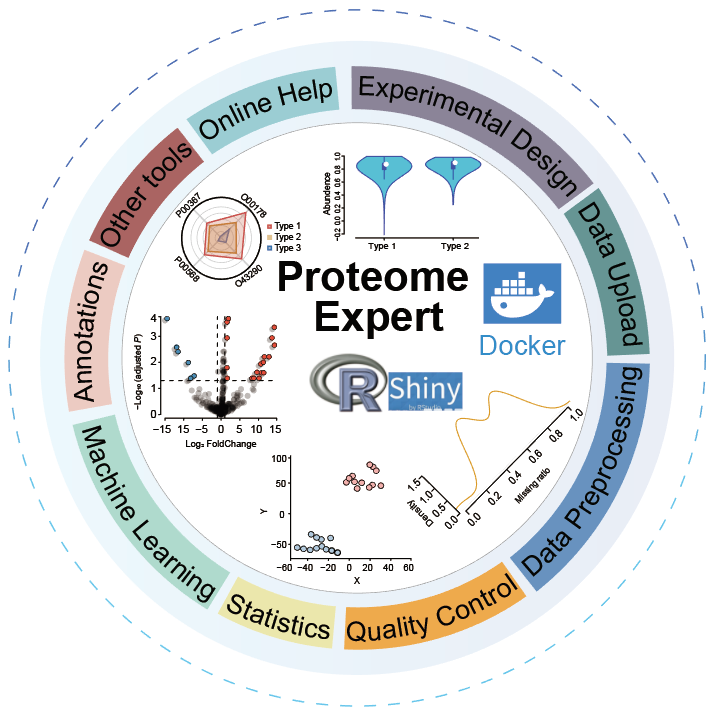
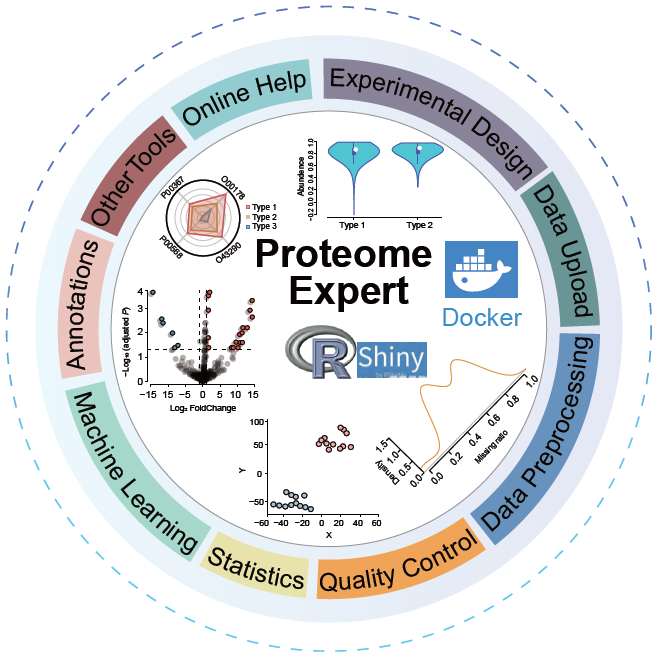
correct case sensitivity

diff --git a/help/ExperimentalDesign.md b/help/ExperimentalDesign.md
@@ -1,5 +1,5 @@
-# ProteomeExpert-Experimental Design
-### Power Analysis
+# ProteomeExpert-Experimental design
+### Power analysis
 
 Power analysis is a statistical strategy that allows us to determine the sample size required to detect a preset effect under a given test statistics, such as Chi-square test or t-test. In particular, we need to pay attention to the calculated sample size and the actual sample size in an experiment. As observed empirically, when the expression of a protein is not that high, say less than 17 after log2 scale transformation, the required sample size will be compromised due to missing data and the statistical power is compromised too.
 
@@ -10,11 +10,11 @@ deviations (default=0.75)` have to be estimated for measured variables, usually 
 
 <img src="poweranalysis.png" align=center>
 
-### Batch Design
+### Batch design
 The main purpose for batch design is to allocate samples into balanced groups to minimize technical bias, say instrumental variations, for large cohort studies. <br />Upload your sample data matrix in **.txt** or **.csv** format with the bottom `Browse`. Choose separator for the file according to its format. `Comma` for .csv, `Semicolon` ,  `Comma` or  `Tab`  for .txt. file.<br />`Select columns for balanced batch design` means choosing the column names (attributes) of your sample dataset that need to be balanced.<br />`Weights for columns` is the different weights between different attributes when the influencers  are considered together.  For example, if you submit `1,1,2` as input for selected columns A, B, C. This means the weight of column A is 25%, of column B is 25% and of column C is 50%. Normalize with <img src="gongshi.jpg" width="133" height = "53" align=center>, n is the number of attributes.<br />`Number of samples in each batch` means how many samples you expected in each balanced group.<br />`Select numeric columns for balanced batch design` means if the attribute is numeric type, such as age, tumor node, metastasis, et.al, it needed to be clarified.
 
 
-1. Download the Batch Design test data 
+1. Download the batch design test data 
 
     For this demo, we will be using a Delayed post-hypoxic leukoencephalopathy (not published) dataset, comprised of 168 samples' information, along with characters of "Sample ID", "Type", "Sex", "Age", "TNM" and "Fuhrman". Download the _batchdesign.csv_ file from "Online Help - Test data files used for batch design - Get"
 	

diff --git a/help/ProteomeExpert-QC.md b/help/ProteomeExpert-QC.md
@@ -1,7 +1,7 @@
-# ProteomeExpert-Quality Control
+# ProteomeExpert-Quality control
 
 ## Overview
-### Quality Control (QC)
+### Quality control (QC)
 
 'QC' allows to show the quality of your protein matrix, which is measured by missing value ratio and reproducibility (Pearson Correlation). The objective protein matrix data is required to be uploaded in the step of 'Data Upload - select your protein file' before starting this step. `Select matrix` select uploadedProMatrix as the matrix to be analyzed and `Select your interesting column name` as your interesting attribute, which will count the number of proteins hierarchy according to the non-missing ratio of each protein. Then choose `MissingValueExplore` and `Reproducibility` as the modules you want to process.
 `MissValueExplore` module design to explore missing data distributions, focusing on numeric missing data. The report shows missing data distributions in different tissue/disease types and show distributions in each row (proteins) and each column (samples).

diff --git a/help/DataPreprocessing.md b/help/DataPreprocessing.md
@@ -1,4 +1,4 @@
-# ProteomeExpert-Data Preprocessing
+# ProteomeExpert-Data preprocessing
 
 ## Overview
 ### Data Preprocessing

diff --git a/help/Dataconsole.md b/help/Dataconsole.md
@@ -1,4 +1,4 @@
-# ProteomeExpert-Data Upload
+# ProteomeExpert-Data upload
 
 ## Overview
 
